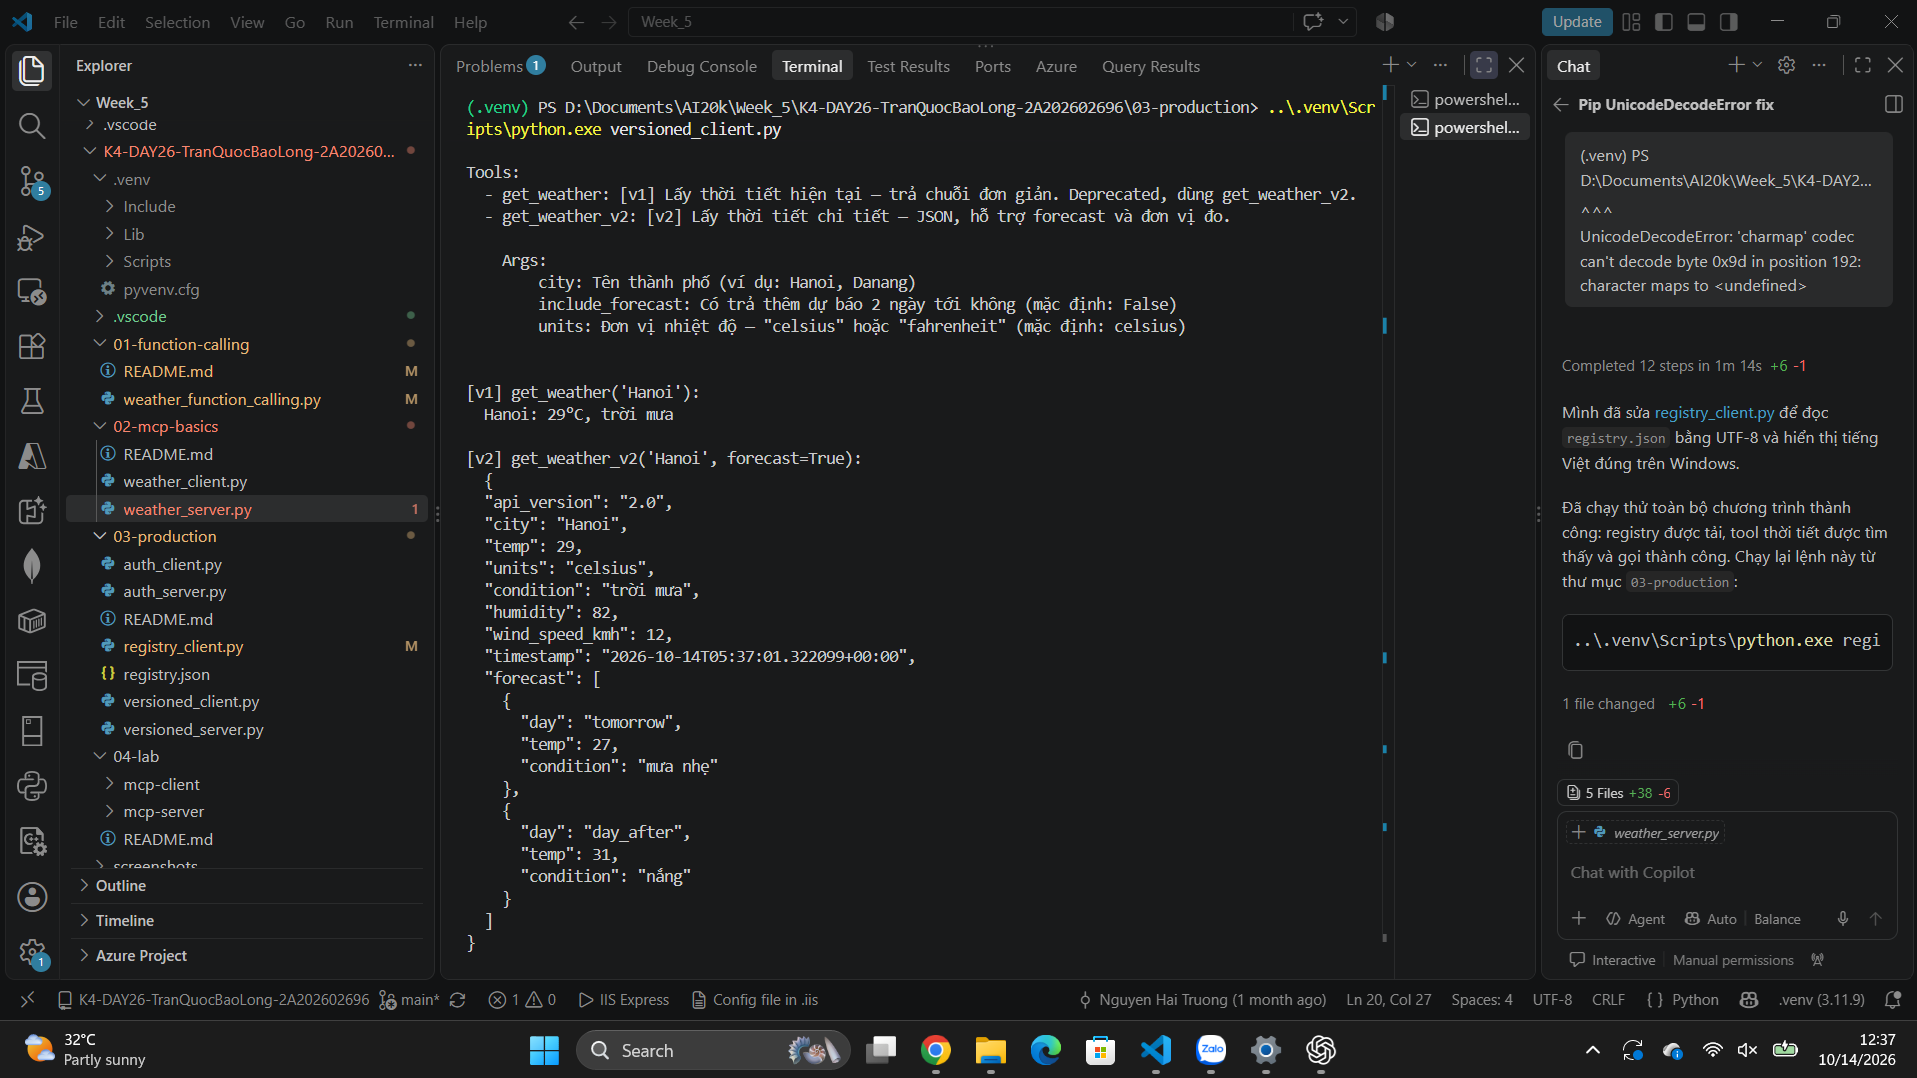
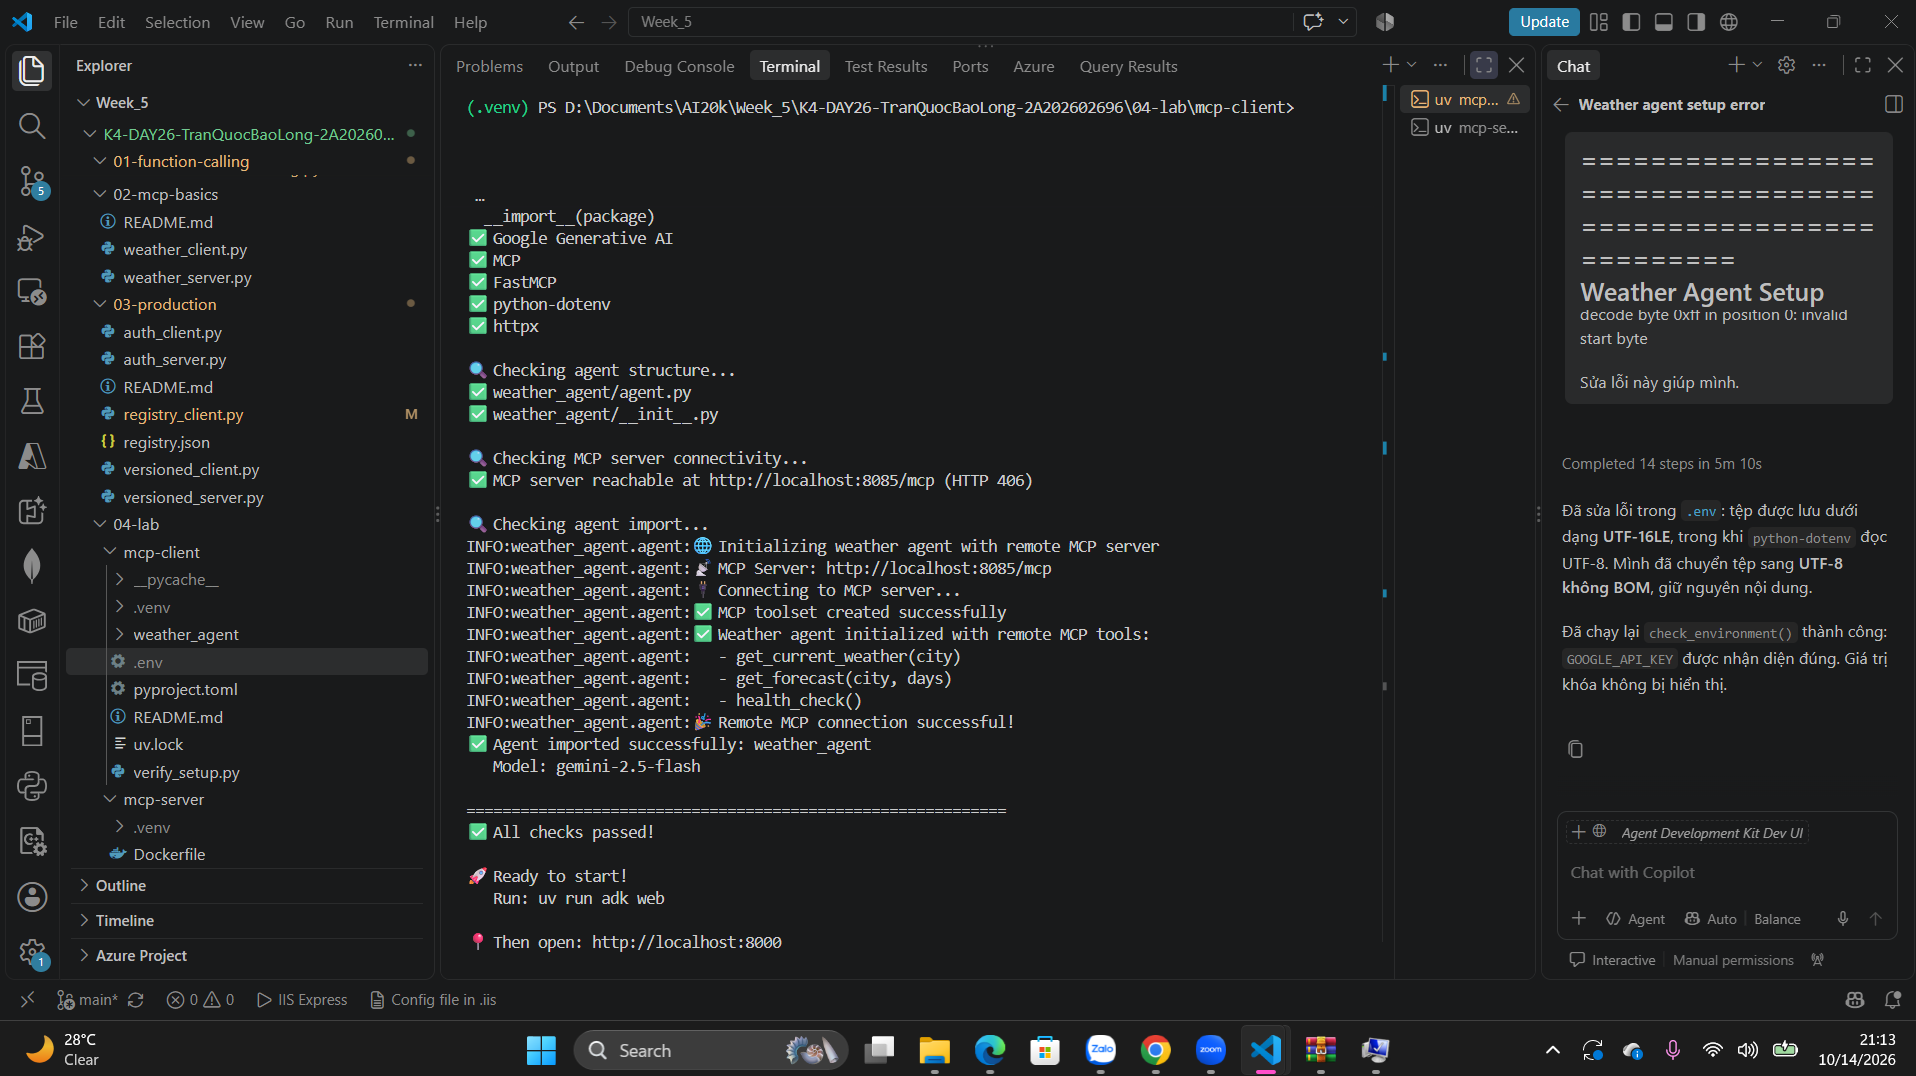
feat: Finished Day 26

diff --git a/04-lab/mcp-client/weather_agent/agent.py b/04-lab/mcp-client/weather_agent/agent.py
@@ -35,7 +35,7 @@ try:
     # Create the agent with remote MCP tools
     root_agent = Agent(
         name="weather_agent",
-        model="gemini-3.6-flash",
+        model="gemini-3.8-flash",
         tools=[weather_tools],
     )
     logger.info("✅ Weather agent initialized with remote MCP tools:")
@@ -54,6 +54,5 @@ except Exception as e:
     logger.warning("⚠  Creating fallback agent without MCP tools")
     root_agent = Agent(
         name="weather_agent",
-        model="gemini-3.6-flash",
+        model="gemini-3.8-flash",
     )
-
